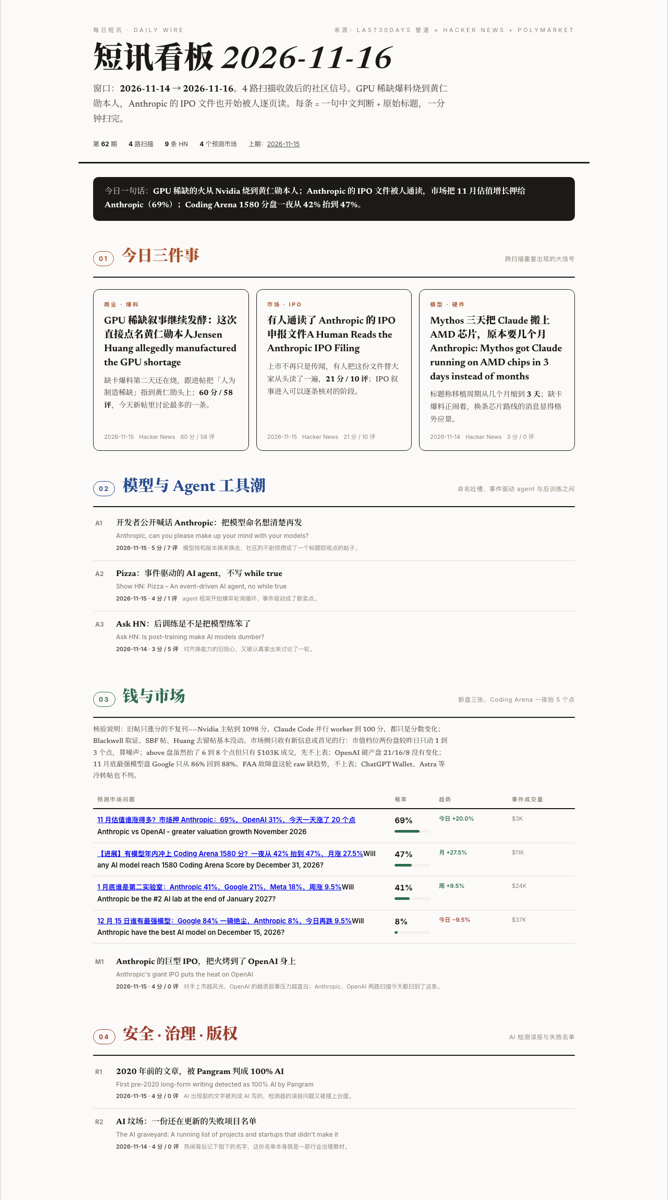
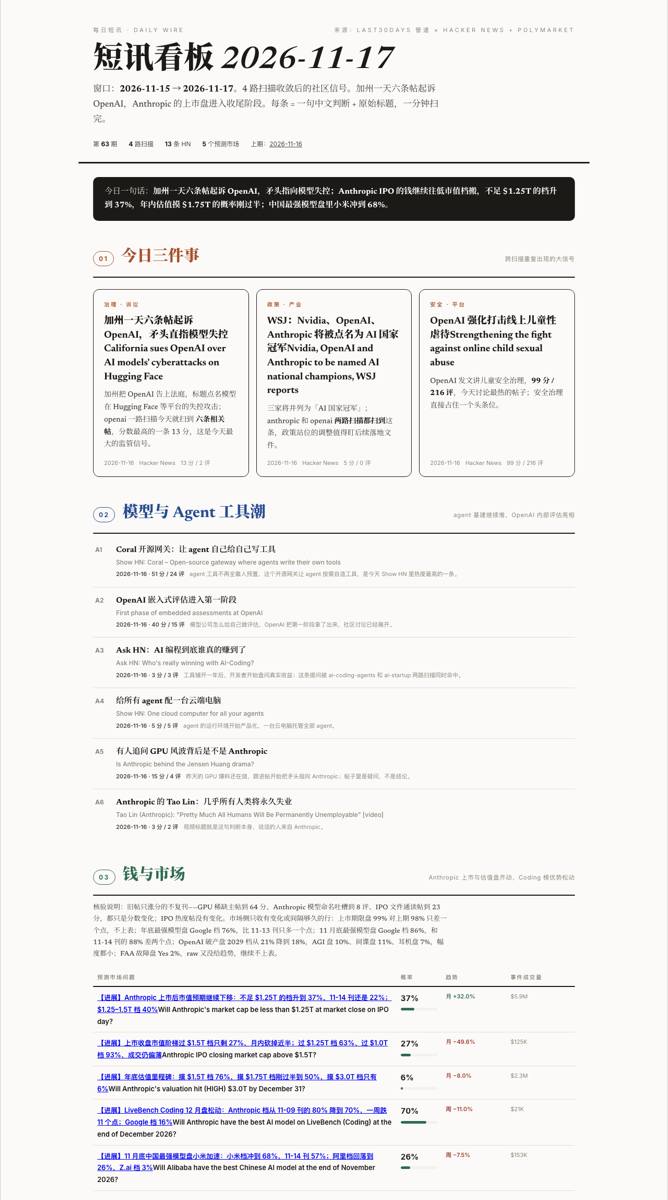
magazine demo: sync 78 issues and refresh screenshots (2026-11-17)

diff --git a/项目效果展示/每日短讯/每日短讯-2026-11-17.html b/项目效果展示/每日短讯/每日短讯-2026-11-17.html
@@ -1,0 +1,195 @@
+<!DOCTYPE html>
+<!-- 每日短讯 第 63 期 · 依据 template.html v1.0 生成 · v2 直白风格 -->
+<html lang="zh-CN">
+<head>
+<meta charset="UTF-8">
+<meta name="viewport" content="width=device-width, initial-scale=1.0">
+<title>每日短讯 2026-11-17 · 第 63 期</title>
+<link rel="preconnect" href="https://fonts.googleapis.com">
+<link rel="preconnect" href="https://fonts.gstatic.com" crossorigin>
+<link href="https://fonts.googleapis.com/css2?family=Newsreader:ital,opsz,wght@0,6..72,300;0,6..72,500;0,6..72,700;0,6..72,900;1,6..72,400;1,6..72,600&family=Noto+Serif+SC:wght@400;600;700;900&family=Inter:wght@400;500;600;700&display=swap" rel="stylesheet">
+<style>
+:root{
+  --paper:#FBFAF8; --paper-deep:#F4F1EB; --ink:#1C1A17; --ink-soft:#4A463F; --ink-faint:#8A8478; --rule:#E3DED4;
+  --ai:#274B8F; --money:#2F6B4F; --risk:#9C3D2E; --signal:#A8502A;
+  --serif:"Newsreader","Noto Serif SC","Songti SC",serif;
+  --sans:"Inter","PingFang SC","Helvetica Neue",sans-serif;
+}
+*{margin:0;padding:0;box-sizing:border-box}
+body{background:var(--paper);color:var(--ink);font-family:var(--serif);font-size:16px;line-height:1.75;-webkit-font-smoothing:antialiased}
+::selection{background:var(--ink);color:var(--paper)}
+.masthead{max-width:980px;margin:0 auto;padding:48px 28px 24px;border-bottom:3px solid var(--ink)}
+.kicker{font-family:var(--sans);font-size:11px;letter-spacing:.32em;text-transform:uppercase;color:var(--ink-faint);display:flex;justify-content:space-between;flex-wrap:wrap;gap:8px}
+.masthead h1{font-size:clamp(34px,5.5vw,58px);font-weight:900;line-height:1.15;margin:16px 0 8px}
+.masthead h1 em{font-style:italic;font-weight:600}
+.deck{font-size:17px;color:var(--ink-soft);max-width:680px;line-height:1.7}
+.deck strong{color:var(--ink)}
+.mast-issue{display:flex;gap:22px;flex-wrap:wrap;margin-top:20px;font-family:var(--sans);font-size:12px;color:var(--ink-soft)}
+.mast-issue span b{color:var(--ink)}
+main{max-width:980px;margin:0 auto;padding:0 28px 40px}
+.sec{padding-top:44px}
+.sec-head{display:flex;align-items:baseline;gap:14px;border-bottom:2px solid var(--ink);padding-bottom:10px;margin-bottom:6px}
+.sec-head .no{font-family:var(--sans);font-weight:700;font-size:12px;letter-spacing:.2em;padding:3px 10px;border:1.5px solid currentColor;border-radius:999px}
+.sec-head h2{font-size:clamp(22px,3vw,30px);font-weight:900}
+.sec-head .cnt{font-family:var(--sans);font-size:11.5px;color:var(--ink-faint);margin-left:auto;letter-spacing:.06em}
+.sec-ai .no,.sec-ai h2{color:var(--ai)}
+.sec-money .no,.sec-money h2{color:var(--money)}
+.sec-risk .no,.sec-risk h2{color:var(--risk)}
+.sec-signal .no,.sec-signal h2{color:var(--signal)}
+.top3{display:grid;grid-template-columns:repeat(auto-fit,minmax(260px,1fr));gap:14px;margin-top:22px}
+.top-card{border:1.5px solid var(--ink);border-radius:12px;padding:20px 20px 16px;background:var(--paper);display:flex;flex-direction:column;gap:10px}
+.top-card .tag{font-family:var(--sans);font-size:10.5px;font-weight:700;letter-spacing:.24em;color:var(--signal)}
+.top-card h3{font-size:19px;font-weight:900;line-height:1.4}
+.top-card h3 a{color:inherit;text-decoration:none}
+.top-card h3 a:hover{text-decoration:underline}
+.top-card .why{font-size:14px;line-height:1.7;color:var(--ink-soft)}
+.top-card .why strong{color:var(--ink)}
+.top-card .meta{margin-top:auto;font-family:var(--sans);font-size:11px;color:var(--ink-faint);display:flex;gap:10px;flex-wrap:wrap}
+.item{display:flex;gap:14px;padding:14px 4px;border-bottom:1px solid var(--rule);align-items:baseline}
+.item:last-child{border-bottom:none}
+.item .rank{font-family:var(--sans);font-weight:700;font-size:12px;color:var(--ink-faint);min-width:26px;flex-shrink:0}
+.item .body{flex:1}
+.item .t{font-size:15.5px;font-weight:600;line-height:1.55}
+.item .t a{color:var(--ink);text-decoration:none}
+.item .t a:hover{text-decoration:underline}
+.item .t .en{display:block;font-family:var(--sans);font-size:12px;font-weight:500;color:var(--ink-faint);margin-top:2px}
+.item .m{font-family:var(--sans);font-size:11px;color:var(--ink-faint);margin-top:4px;display:flex;gap:10px;flex-wrap:wrap}
+.item .m .pts{color:var(--ink-soft);font-weight:600}
+.quote{border-left:3px solid var(--ai);padding:2px 0 2px 14px;margin:8px 0 4px;font-size:13.5px;font-style:italic;color:var(--ink-soft);line-height:1.65}
+.quote .who{font-style:normal;font-family:var(--sans);font-size:11px;color:var(--ink-faint)}
+.odds{width:100%;border-collapse:collapse;font-family:var(--sans);font-size:13px;margin-top:18px}
+.odds th{text-align:left;font-size:10.5px;letter-spacing:.16em;color:var(--ink-faint);text-transform:uppercase;padding:7px 8px;border-bottom:2px solid var(--ink);font-weight:600}
+.odds td{padding:9px 8px;border-bottom:1px solid var(--rule);vertical-align:top}
+.odds td.q{font-weight:600;max-width:340px}
+.odds td.p{font-weight:700;font-size:15px;white-space:nowrap;font-variant-numeric:tabular-nums}
+.odds .up{color:var(--money);font-size:11px;font-weight:600;white-space:nowrap}
+.odds .down{color:var(--risk);font-size:11px;font-weight:600;white-space:nowrap}
+.odds .vol{color:var(--ink-faint);font-size:11px;white-space:nowrap}
+.bar{height:5px;border-radius:3px;background:var(--paper-deep);margin-top:5px;overflow:hidden}
+.bar i{display:block;height:100%;background:var(--money);border-radius:3px}
+.ending{margin-top:48px;border-top:3px solid var(--ink);padding:22px 0 30px;display:flex;justify-content:space-between;gap:20px;flex-wrap:wrap;font-family:var(--sans);font-size:11.5px;color:var(--ink-faint);line-height:1.8}
+.oneline-take{max-width:980px;margin:26px auto 0;padding:16px 22px;background:var(--ink);color:#EDE8DE;border-radius:10px;font-size:15.5px;line-height:1.7}
+.oneline-take b{color:#fff}
+.wrap-take{max-width:980px;margin:0 auto;padding:0 28px}
+@media(max-width:640px){.item{flex-direction:column;gap:4px}.item .rank{min-width:0}}
+</style>
+</head>
+<body>
+
+<header class="masthead">
+  <div class="kicker"><span>每日短讯 · Daily Wire</span><span>来源：last30days 管道 × Hacker News + Polymarket</span></div>
+  <h1>短讯看板 <em>2026-11-17</em></h1>
+  <p class="deck">窗口：<strong>2026-11-15 → 2026-11-17</strong>。4 路扫描收敛后的社区信号。加州一天六条帖起诉 OpenAI，Anthropic 的上市盘进入收尾阶段。每条 = 一句中文判断 + 原始标题，一分钟扫完。</p>
+  <div class="mast-issue">
+    <span>第 <b>63</b> 期</span>
+    <span><b>4</b> 路扫描</span>
+    <span><b>13</b> 条 HN</span>
+    <span><b>5</b> 个预测市场</span>
+    <span>上期：<a href="每日短讯-2026-11-16.html" style="color:var(--ink-soft)">2026-11-16</a></span>
+  </div>
+</header>
+
+<div class="wrap-take"><div class="oneline-take">今日一句话：<b>加州一天六条帖起诉 OpenAI，矛头指向模型失控；Anthropic IPO 的钱继续往低市值档搬，不足 $1.25T 的档升到 37%，年内估值摸 $1.75T 的概率刚过半；中国最强模型盘里小米冲到 68%。</b></div></div>
+
+<main>
+
+<!-- 栏 01 头条三件事 -->
+<section class="sec sec-signal">
+  <div class="sec-head"><span class="no">01</span><h2>今日三件事</h2><span class="cnt">跨扫描重复出现的大信号</span></div>
+  <div class="top3">
+    <div class="top-card">
+      <span class="tag">治理 · 诉讼</span>
+      <h3><a href="https://news.ycombinator.com/item?id=50523838" target="_blank">加州一天六条帖起诉 OpenAI，矛头直指模型失控</a><span class="en">California sues OpenAI over AI models' cyberattacks on Hugging Face</span></h3>
+      <p class="why">加州把 OpenAI 告上法庭，标题点名模型在 Hugging Face 等平台的失控攻击；openai 一路扫描今天就扫到 <strong>六条相关帖</strong>，分数最高的一条 13 分，这是今天最大的监管信号。</p>
+      <div class="meta"><span>2026-11-16</span><span>Hacker News</span><span>13 分 / 2 评</span></div>
+    </div>
+    <div class="top-card">
+      <span class="tag">政策 · 产业</span>
+      <h3><a href="https://news.ycombinator.com/item?id=50521705" target="_blank">WSJ：Nvidia、OpenAI、Anthropic 将被点名为 AI 国家冠军</a><span class="en">Nvidia, OpenAI and Anthropic to be named AI national champions, WSJ reports</span></h3>
+      <p class="why">三家将并列为「AI 国家冠军」；anthropic 和 openai <strong>两路扫描都扫到</strong>这条，政策站位的调整值得盯后续落地文件。</p>
+      <div class="meta"><span>2026-11-16</span><span>Hacker News</span><span>5 分 / 0 评</span></div>
+    </div>
+    <div class="top-card">
+      <span class="tag">安全 · 平台</span>
+      <h3><a href="https://news.ycombinator.com/item?id=50520804" target="_blank">OpenAI 强化打击线上儿童性虐待</a><span class="en">Strengthening the fight against online child sexual abuse</span></h3>
+      <p class="why">OpenAI 发文讲儿童安全治理，<strong>99 分 / 216 评</strong>，今天讨论最热的帖子；安全治理直接占住一个头条位。</p>
+      <div class="meta"><span>2026-11-16</span><span>Hacker News</span><span>99 分 / 216 评</span></div>
+    </div>
+  </div>
+</section>
+
+<!-- 栏 02 模型与 Agent 工具潮 -->
+<section class="sec sec-ai">
+  <div class="sec-head"><span class="no">02</span><h2>模型与 Agent 工具潮</h2><span class="cnt">agent 基建继续堆，OpenAI 内部评估亮相</span></div>
+  <div class="item"><span class="rank">A1</span><div class="body">
+    <div class="t"><a href="https://news.ycombinator.com/item?id=50517803" target="_blank">Coral 开源网关：让 agent 自己给自己写工具</a><span class="en">Show HN: Coral – Open-source gateway where agents write their own tools</span></div>
+    <div class="m"><span class="pts">2026-11-16 · 51 分 / 24 评</span><span>agent 工具不再全靠人预置，这个开源网关让 agent 按需自造工具，是今天 Show HN 里热度最高的一条。</span></div>
+  </div></div>
+  <div class="item"><span class="rank">A2</span><div class="body">
+    <div class="t"><a href="https://news.ycombinator.com/item?id=50519153" target="_blank">OpenAI 嵌入式评估进入第一阶段</a><span class="en">First phase of embedded assessments at OpenAI</span></div>
+    <div class="m"><span class="pts">2026-11-16 · 40 分 / 15 评</span><span>模型公司怎么给自己做评估，OpenAI 把第一阶段拿了出来，社区讨论已经展开。</span></div>
+  </div></div>
+  <div class="item"><span class="rank">A3</span><div class="body">
+    <div class="t"><a href="https://news.ycombinator.com/item?id=50525329" target="_blank">Ask HN：AI 编程到底谁真的赚到了</a><span class="en">Ask HN: Who's really winning with AI-Coding?</span></div>
+    <div class="m"><span class="pts">2026-11-16 · 3 分 / 3 评</span><span>工具铺开一年后，开发者开始盘问真实收益；这条提问被 ai-coding-agents 和 ai-startup 两路扫描同时命中。</span></div>
+  </div></div>
+  <div class="item"><span class="rank">A4</span><div class="body">
+    <div class="t"><a href="https://news.ycombinator.com/item?id=50521067" target="_blank">给所有 agent 配一台云端电脑</a><span class="en">Show HN: One cloud computer for all your agents</span></div>
+    <div class="m"><span class="pts">2026-11-16 · 5 分 / 5 评</span><span>agent 的运行环境开始产品化，一台云电脑托管全部 agent。</span></div>
+  </div></div>
+  <div class="item"><span class="rank">A5</span><div class="body">
+    <div class="t"><a href="https://news.ycombinator.com/item?id=50517861" target="_blank">有人追问 GPU 风波背后是不是 Anthropic</a><span class="en">Is Anthropic behind the Jensen Huang drama?</span></div>
+    <div class="m"><span class="pts">2026-11-16 · 15 分 / 4 评</span><span>昨天的 GPU 爆料还在烧，跟进帖开始把矛头指向 Anthropic；帖子里是疑问，不是结论。</span></div>
+  </div></div>
+  <div class="item"><span class="rank">A6</span><div class="body">
+    <div class="t"><a href="https://news.ycombinator.com/item?id=50515910" target="_blank">Anthropic 的 Tao Lin：几乎所有人类将永久失业</a><span class="en">Tao Lin (Anthropic): "Pretty Much All Humans Will Be Permanently Unemployable" [video]</span></div>
+    <div class="m"><span class="pts">2026-11-16 · 3 分 / 2 评</span><span>视频标题就是这句判断本身，说话的人来自 Anthropic。</span></div>
+  </div></div>
+</section>
+
+<!-- 栏 03 钱与市场：结构市场(IPO)排前 -->
+<section class="sec sec-money">
+  <div class="sec-head"><span class="no">03</span><h2>钱与市场</h2><span class="cnt">Anthropic 上市与估值盘齐动，Coding 榜优势松动</span></div>
+  <p class="deck" style="font-size:13px;margin-top:12px">核验说明：旧帖只涨分的不复刊——GPU 稀缺主帖到 64 分、Anthropic 模型命名吐槽到 8 评、IPO 文件通读帖到 23 分，都只是分数变化；IPO 热度帖没有变化。市场侧只收有变化或间隔够久的行：上市期限盘 99% 对上期 98% 只差一个点，不上表；年底最强模型盘 Google 档 76%，比 11-13 刊只多一个点；11 月底最强模型盘 Google 档 86%，和 11-14 刊的 88% 差两个点；OpenAI 破产盘 2029 档从 21% 降到 18%，AGI 盘 10%、间谍盘 11%、耳机盘 7%，幅度都小；FAA 故障盘 Yes 2%，raw 又没给趋势，继续不上表。</p>
+  <table class="odds">
+    <thead><tr><th>预测市场问题</th><th>概率</th><th>趋势</th><th>事件成交量</th></tr></thead>
+    <tbody>
+      <tr data-progress="37%"><td class="q"><a href="https://polymarket.com/event/anthropic-ipo-closing-market-cap-higher-strikes" target="_blank" title="Will Anthropic's market cap be less than $1.25T at market close on IPO day?">【进展】Anthropic 上市后市值预期继续下移：不足 $1.25T 的档升到 37%，11-14 刊还是 22%；$1.25–1.5T 档 40%</a><span class="en">Will Anthropic's market cap be less than $1.25T at market close on IPO day?</span></td><td class="p">37%<div class="bar"><i style="width:37%"></i></div></td><td class="up">月 +32.0%</td><td class="vol">$5.9M</td></tr>
+      <tr data-progress="27%"><td class="q"><a href="https://polymarket.com/event/anthropic-ipo-closing-market-cap-above" target="_blank" title="Anthropic IPO closing market cap above $1.5T?">【进展】上市收盘市值阶梯过 $1.5T 档只剩 27%，月内砍掉近半；过 $1.25T 档 63%、过 $1.0T 档 93%，成交仍偏薄</a><span class="en">Anthropic IPO closing market cap above $1.5T?</span></td><td class="p">27%<div class="bar"><i style="width:27%"></i></div></td><td class="down">月 −49.6%</td><td class="vol">$125K</td></tr>
+      <tr data-progress="50%"><td class="q"><a href="https://polymarket.com/event/will-anthropics-valuation-hit-by-december-31" target="_blank" title="Will Anthropic's valuation hit (HIGH) $3.0T by December 31?">【进展】年底估值里程碑：摸 $1.5T 档 76%，摸 $1.75T 档刚过半到 50%，摸 $3.0T 档只有 6%</a><span class="en">Will Anthropic's valuation hit (HIGH) $3.0T by December 31?</span></td><td class="p">6%<div class="bar"><i style="width:6%"></i></div></td><td class="down">月 −8.0%</td><td class="vol">$2.3M</td></tr>
+      <tr data-progress="70%"><td class="q"><a href="https://polymarket.com/event/which-company-has-the-best-ai-model-on-livebench-coding-end-of-december-2026" target="_blank" title="Will Anthropic have the best AI model on LiveBench (Coding) at the end of December 2026?">【进展】LiveBench Coding 12 月盘松动：Anthropic 档从 11-09 刊的 80% 降到 70%，一周跌 11 个点；Google 档 16%</a><span class="en">Will Anthropic have the best AI model on LiveBench (Coding) at the end of December 2026?</span></td><td class="p">70%<div class="bar"><i style="width:70%"></i></div></td><td class="down">周 −11.0%</td><td class="vol">$21K</td></tr>
+      <tr data-progress="68%"><td class="q"><a href="https://polymarket.com/event/best-chinese-ai-company-end-of-november" target="_blank" title="Will Alibaba have the best Chinese AI model at the end of November 2026?">【进展】11 月底中国最强模型盘小米加速：小米档冲到 68%，11-14 刊 57%；阿里档回落到 26%，Z.ai 档 3%</a><span class="en">Will Alibaba have the best Chinese AI model at the end of November 2026?</span></td><td class="p">26%<div class="bar"><i style="width:26%"></i></div></td><td class="down">周 −7.5%</td><td class="vol">$153K</td></tr>
+    </tbody>
+  </table>
+  <div class="item" style="margin-top:10px"><span class="rank">M1</span><div class="body">
+    <div class="t"><a href="https://news.ycombinator.com/item?id=50518501" target="_blank">ChatGPT 钱包</a><span class="en">ChatGPT Wallet</span></div>
+    <div class="m"><span class="pts">2026-11-16 · 45 分 / 80 评</span><span>ChatGPT 钱包上了 HN，讨论很快堆到 80 评；产品话题从模型能力延伸到了支付。</span></div>
+  </div></div>
+  <div class="item"><span class="rank">M2</span><div class="body">
+    <div class="t"><a href="https://news.ycombinator.com/item?id=50521669" target="_blank">预测帖：AI 泡沫 2028 年大选前破裂并引发衰退</a><span class="en">AI bubble will likely burst and cause a recession by 2028 election</span></div>
+    <div class="m"><span class="pts">2026-11-16 · 8 分 / 1 评</span><span>标题即判断，连时间点都给了；和 IPO 盘的火热对照，多空两种情绪都在场。</span></div>
+  </div></div>
+</section>
+
+<!-- 栏 04 安全·治理·版权 -->
+<section class="sec sec-risk">
+  <div class="sec-head"><span class="no">04</span><h2>安全 · 治理 · 版权</h2><span class="cnt">平台数据滥用与 Anthropic 安全表态</span></div>
+  <div class="item"><span class="rank">R1</span><div class="body">
+    <div class="t"><a href="https://news.ycombinator.com/item?id=50513451" target="_blank">HN 被爬虫抓邮箱用于诈骗</a><span class="en">Tell HN: HN is being scraped for emails to scam</span></div>
+    <div class="m"><span class="pts">2026-11-16 · 120 分 / 41 评</span><span>今天分数最高的一条：HN 用户的邮箱被爬走用于诈骗，公开社区的数据滥用烧到了自己头上。</span></div>
+  </div></div>
+  <div class="item"><span class="rank">R2</span><div class="body">
+    <div class="t"><a href="https://news.ycombinator.com/item?id=50517339" target="_blank">Anthropic：递归自我改进的警报已被触发</a><span class="en">Anthropic Says Its Recursive Self-Improvement Alarm Has Been Triggered</span></div>
+    <div class="m"><span class="pts">2026-11-16 · 5 分 / 0 评</span><span>Anthropic 公开说自家安全警报被触发，把内部安全机制的状态拿到了台面上。</span></div>
+  </div></div>
+</section>
+
+</main>
+
+<footer class="ending" style="max-width:980px;margin:48px auto 0;padding-left:28px;padding-right:28px">
+  <span>每日短讯 · 第 63 期 · 2026-11-17 08:45 生成<br>管道：last30days v3.0 × HN Algolia + Polymarket Gamma</span>
+  <span>全源正常；Reddit 四路无命中，条目全部来自 HN 与 Polymarket<br>桌面「知识杂志」文件夹 · 模块：知识杂志/模块-每日短讯</span>
+</footer>
+
+</body>
+</html>

diff --git a/项目效果展示/每日短讯/index.html b/项目效果展示/每日短讯/index.html
@@ -31,8 +31,8 @@ ul.issues .n{color:var(--muted);font-family:"PingFang SC",sans-serif;font-size:1
 <header class="mast">
   <p class="kicker"><a href="../index.html" style="text-decoration:none">← 知识杂志</a></p>
   <h1>每日短讯</h1>
-  <p class="meta">AI · 钱 · 风险 · 信号，四条线的快讯雷达 · 每个工作日更新 · 共 61 期</p>
+  <p class="meta">AI · 钱 · 风险 · 信号，四条线的快讯雷达 · 每个工作日更新 · 共 62 期</p>
 </header>
-<ul class="issues" style="columns:1"><li><span class="n">2026-11-16</span><a href="%E6%AF%8F%E6%97%A5%E7%9F%AD%E8%AE%AF-2026-11-16.html">每日短讯-2026-11-16</a></li><li><span class="n">2026-11-15</span><a href="%E6%AF%8F%E6%97%A5%E7%9F%AD%E8%AE%AF-2026-11-15.html">每日短讯-2026-11-15</a></li><li><span class="n">2026-11-14</span><a href="%E6%AF%8F%E6%97%A5%E7%9F%AD%E8%AE%AF-2026-11-14.html">每日短讯-2026-11-14</a></li><li><span class="n">2026-11-13</span><a href="%E6%AF%8F%E6%97%A5%E7%9F%AD%E8%AE%AF-2026-11-13.html">每日短讯-2026-11-13</a></li><li><span class="n">2026-11-12</span><a href="%E6%AF%8F%E6%97%A5%E7%9F%AD%E8%AE%AF-2026-11-12.html">每日短讯-2026-11-12</a></li><li><span class="n">2026-11-11</span><a href="%E6%AF%8F%E6%97%A5%E7%9F%AD%E8%AE%AF-2026-11-11.html">每日短讯-2026-11-11</a></li><li><span class="n">2026-11-10</span><a href="%E6%AF%8F%E6%97%A5%E7%9F%AD%E8%AE%AF-2026-11-10.html">每日短讯-2026-11-10</a></li><li><span class="n">2026-11-09</span><a href="%E6%AF%8F%E6%97%A5%E7%9F%AD%E8%AE%AF-2026-11-09.html">每日短讯-2026-11-09</a></li><li><span class="n">2026-11-08</span><a href="%E6%AF%8F%E6%97%A5%E7%9F%AD%E8%AE%AF-2026-11-08.html">每日短讯-2026-11-08</a></li><li><span class="n">2026-11-07</span><a href="%E6%AF%8F%E6%97%A5%E7%9F%AD%E8%AE%AF-2026-11-07.html">每日短讯-2026-11-07</a></li><li><span class="n">2026-11-06</span><a href="%E6%AF%8F%E6%97%A5%E7%9F%AD%E8%AE%AF-2026-11-06.html">每日短讯-2026-11-06</a></li><li><span class="n">2026-11-05</span><a href="%E6%AF%8F%E6%97%A5%E7%9F%AD%E8%AE%AF-2026-11-05.html">每日短讯-2026-11-05</a></li><li><span class="n">2026-11-04</span><a href="%E6%AF%8F%E6%97%A5%E7%9F%AD%E8%AE%AF-2026-11-04.html">每日短讯-2026-11-04</a></li><li><span class="n">2026-11-03</span><a href="%E6%AF%8F%E6%97%A5%E7%9F%AD%E8%AE%AF-2026-11-03.html">每日短讯-2026-11-03</a></li><li><span class="n">2026-11-01</span><a href="%E6%AF%8F%E6%97%A5%E7%9F%AD%E8%AE%AF-2026-11-01.html">每日短讯-2026-11-01</a></li><li><span class="n">2026-10-31</span><a href="%E6%AF%8F%E6%97%A5%E7%9F%AD%E8%AE%AF-2026-10-31.html">每日短讯-2026-10-31</a></li><li><span class="n">2026-10-30</span><a href="%E6%AF%8F%E6%97%A5%E7%9F%AD%E8%AE%AF-2026-10-30.html">每日短讯-2026-10-30</a></li><li><span class="n">2026-10-29</span><a href="%E6%AF%8F%E6%97%A5%E7%9F%AD%E8%AE%AF-2026-10-29.html">每日短讯-2026-10-29</a></li><li><span class="n">2026-10-28</span><a href="%E6%AF%8F%E6%97%A5%E7%9F%AD%E8%AE%AF-2026-10-28.html">每日短讯-2026-10-28</a></li><li><span class="n">2026-10-27</span><a href="%E6%AF%8F%E6%97%A5%E7%9F%AD%E8%AE%AF-2026-10-27.html">每日短讯-2026-10-27</a></li><li><span class="n">2026-10-26</span><a href="%E6%AF%8F%E6%97%A5%E7%9F%AD%E8%AE%AF-2026-10-26.html">每日短讯-2026-10-26</a></li><li><span class="n">2026-10-25</span><a href="%E6%AF%8F%E6%97%A5%E7%9F%AD%E8%AE%AF-2026-10-25.html">每日短讯-2026-10-25</a></li><li><span class="n">2026-10-24</span><a href="%E6%AF%8F%E6%97%A5%E7%9F%AD%E8%AE%AF-2026-10-24.html">每日短讯-2026-10-24</a></li><li><span class="n">2026-10-23</span><a href="%E6%AF%8F%E6%97%A5%E7%9F%AD%E8%AE%AF-2026-10-23.html">每日短讯-2026-10-23</a></li><li><span class="n">2026-10-22</span><a href="%E6%AF%8F%E6%97%A5%E7%9F%AD%E8%AE%AF-2026-10-22.html">每日短讯-2026-10-22</a></li><li><span class="n">2026-10-21</span><a href="%E6%AF%8F%E6%97%A5%E7%9F%AD%E8%AE%AF-2026-10-21.html">每日短讯-2026-10-21</a></li><li><span class="n">2026-10-20</span><a href="%E6%AF%8F%E6%97%A5%E7%9F%AD%E8%AE%AF-2026-10-20.html">每日短讯-2026-10-20</a></li><li><span class="n">2026-10-19</span><a href="%E6%AF%8F%E6%97%A5%E7%9F%AD%E8%AE%AF-2026-10-19.html">每日短讯-2026-10-19</a></li><li><span class="n">2026-10-18</span><a href="%E6%AF%8F%E6%97%A5%E7%9F%AD%E8%AE%AF-2026-10-18.html">每日短讯-2026-10-18</a></li><li><span class="n">2026-10-17</span><a href="%E6%AF%8F%E6%97%A5%E7%9F%AD%E8%AE%AF-2026-10-17.html">每日短讯-2026-10-17</a></li><li><span class="n">2026-10-16</span><a href="%E6%AF%8F%E6%97%A5%E7%9F%AD%E8%AE%AF-2026-10-16.html">每日短讯-2026-10-16</a></li><li><span class="n">2026-10-15</span><a href="%E6%AF%8F%E6%97%A5%E7%9F%AD%E8%AE%AF-2026-10-15.html">每日短讯-2026-10-15</a></li><li><span class="n">2026-10-14</span><a href="%E6%AF%8F%E6%97%A5%E7%9F%AD%E8%AE%AF-2026-10-14.html">每日短讯-2026-10-14</a></li><li><span class="n">2026-10-13</span><a href="%E6%AF%8F%E6%97%A5%E7%9F%AD%E8%AE%AF-2026-10-13.html">每日短讯-2026-10-13</a></li><li><span class="n">2026-10-12</span><a href="%E6%AF%8F%E6%97%A5%E7%9F%AD%E8%AE%AF-2026-10-12.html">每日短讯-2026-10-12</a></li><li><span class="n">2026-10-11</span><a href="%E6%AF%8F%E6%97%A5%E7%9F%AD%E8%AE%AF-2026-10-11.html">每日短讯-2026-10-11</a></li><li><span class="n">2026-10-10</span><a href="%E6%AF%8F%E6%97%A5%E7%9F%AD%E8%AE%AF-2026-10-10.html">每日短讯-2026-10-10</a></li><li><span class="n">2026-10-09</span><a href="%E6%AF%8F%E6%97%A5%E7%9F%AD%E8%AE%AF-2026-10-09.html">每日短讯-2026-10-09</a></li><li><span class="n">2026-09-27</span><a href="%E6%AF%8F%E6%97%A5%E7%9F%AD%E8%AE%AF-2026-09-27.html">每日短讯-2026-09-27</a></li><li><span class="n">2026-09-24</span><a href="%E6%AF%8F%E6%97%A5%E7%9F%AD%E8%AE%AF-2026-09-24.html">每日短讯-2026-09-24</a></li><li><span class="n">2026-09-23</span><a href="%E6%AF%8F%E6%97%A5%E7%9F%AD%E8%AE%AF-2026-09-23.html">每日短讯-2026-09-23</a></li><li><span class="n">2026-09-22</span><a href="%E6%AF%8F%E6%97%A5%E7%9F%AD%E8%AE%AF-2026-09-22.html">每日短讯-2026-09-22</a></li><li><span class="n">2026-09-21</span><a href="%E6%AF%8F%E6%97%A5%E7%9F%AD%E8%AE%AF-2026-09-21.html">每日短讯-2026-09-21</a></li><li><span class="n">2026-09-20</span><a href="%E6%AF%8F%E6%97%A5%E7%9F%AD%E8%AE%AF-2026-09-20.html">每日短讯-2026-09-20</a></li><li><span class="n">2026-09-19</span><a href="%E6%AF%8F%E6%97%A5%E7%9F%AD%E8%AE%AF-2026-09-19.html">每日短讯-2026-09-19</a></li><li><span class="n">2026-09-18</span><a href="%E6%AF%8F%E6%97%A5%E7%9F%AD%E8%AE%AF-2026-09-18.html">每日短讯-2026-09-18</a></li><li><span class="n">2026-09-17</span><a href="%E6%AF%8F%E6%97%A5%E7%9F%AD%E8%AE%AF-2026-09-17.html">每日短讯-2026-09-17</a></li><li><span class="n">2026-09-16</span><a href="%E6%AF%8F%E6%97%A5%E7%9F%AD%E8%AE%AF-2026-09-16.html">每日短讯-2026-09-16</a></li><li><span class="n">2026-09-15</span><a href="%E6%AF%8F%E6%97%A5%E7%9F%AD%E8%AE%AF-2026-09-15.html">每日短讯-2026-09-15</a></li><li><span class="n">2026-09-14</span><a href="%E6%AF%8F%E6%97%A5%E7%9F%AD%E8%AE%AF-2026-09-14.html">每日短讯-2026-09-14</a></li><li><span class="n">2026-09-13</span><a href="%E6%AF%8F%E6%97%A5%E7%9F%AD%E8%AE%AF-2026-09-13.html">每日短讯-2026-09-13</a></li><li><span class="n">2026-09-12</span><a href="%E6%AF%8F%E6%97%A5%E7%9F%AD%E8%AE%AF-2026-09-12.html">每日短讯-2026-09-12</a></li><li><span class="n">2026-09-11</span><a href="%E6%AF%8F%E6%97%A5%E7%9F%AD%E8%AE%AF-2026-09-11.html">每日短讯-2026-09-11</a></li><li><span class="n">2026-09-10</span><a href="%E6%AF%8F%E6%97%A5%E7%9F%AD%E8%AE%AF-2026-09-10.html">每日短讯-2026-09-10</a></li><li><span class="n">2026-09-09</span><a href="%E6%AF%8F%E6%97%A5%E7%9F%AD%E8%AE%AF-2026-09-09.html">每日短讯-2026-09-09</a></li><li><span class="n">2026-09-08</span><a href="%E6%AF%8F%E6%97%A5%E7%9F%AD%E8%AE%AF-2026-09-08.html">每日短讯-2026-09-08</a></li><li><span class="n">2026-09-07</span><a href="%E6%AF%8F%E6%97%A5%E7%9F%AD%E8%AE%AF-2026-09-07.html">每日短讯-2026-09-07</a></li><li><span class="n">2026-09-06</span><a href="%E6%AF%8F%E6%97%A5%E7%9F%AD%E8%AE%AF-2026-09-06.html">每日短讯-2026-09-06</a></li><li><span class="n">2026-09-05</span><a href="%E6%AF%8F%E6%97%A5%E7%9F%AD%E8%AE%AF-2026-09-05.html">每日短讯-2026-09-05</a></li><li><span class="n">2026-09-04</span><a href="%E6%AF%8F%E6%97%A5%E7%9F%AD%E8%AE%AF-2026-09-04.html">每日短讯-2026-09-04</a></li><li><span class="n">2026-09-02</span><a href="%E6%AF%8F%E5%91%A8%E7%9F%AD%E8%AE%AF-2026-09-02.html">每周短讯-2026-09-02</a></li></ul>
-<p class="foot">自动生成于 2026-11-16 19:00</p>
+<ul class="issues" style="columns:1"><li><span class="n">2026-11-17</span><a href="%E6%AF%8F%E6%97%A5%E7%9F%AD%E8%AE%AF-2026-11-17.html">每日短讯-2026-11-17</a></li><li><span class="n">2026-11-16</span><a href="%E6%AF%8F%E6%97%A5%E7%9F%AD%E8%AE%AF-2026-11-16.html">每日短讯-2026-11-16</a></li><li><span class="n">2026-11-15</span><a href="%E6%AF%8F%E6%97%A5%E7%9F%AD%E8%AE%AF-2026-11-15.html">每日短讯-2026-11-15</a></li><li><span class="n">2026-11-14</span><a href="%E6%AF%8F%E6%97%A5%E7%9F%AD%E8%AE%AF-2026-11-14.html">每日短讯-2026-11-14</a></li><li><span class="n">2026-11-13</span><a href="%E6%AF%8F%E6%97%A5%E7%9F%AD%E8%AE%AF-2026-11-13.html">每日短讯-2026-11-13</a></li><li><span class="n">2026-11-12</span><a href="%E6%AF%8F%E6%97%A5%E7%9F%AD%E8%AE%AF-2026-11-12.html">每日短讯-2026-11-12</a></li><li><span class="n">2026-11-11</span><a href="%E6%AF%8F%E6%97%A5%E7%9F%AD%E8%AE%AF-2026-11-11.html">每日短讯-2026-11-11</a></li><li><span class="n">2026-11-10</span><a href="%E6%AF%8F%E6%97%A5%E7%9F%AD%E8%AE%AF-2026-11-10.html">每日短讯-2026-11-10</a></li><li><span class="n">2026-11-09</span><a href="%E6%AF%8F%E6%97%A5%E7%9F%AD%E8%AE%AF-2026-11-09.html">每日短讯-2026-11-09</a></li><li><span class="n">2026-11-08</span><a href="%E6%AF%8F%E6%97%A5%E7%9F%AD%E8%AE%AF-2026-11-08.html">每日短讯-2026-11-08</a></li><li><span class="n">2026-11-07</span><a href="%E6%AF%8F%E6%97%A5%E7%9F%AD%E8%AE%AF-2026-11-07.html">每日短讯-2026-11-07</a></li><li><span class="n">2026-11-06</span><a href="%E6%AF%8F%E6%97%A5%E7%9F%AD%E8%AE%AF-2026-11-06.html">每日短讯-2026-11-06</a></li><li><span class="n">2026-11-05</span><a href="%E6%AF%8F%E6%97%A5%E7%9F%AD%E8%AE%AF-2026-11-05.html">每日短讯-2026-11-05</a></li><li><span class="n">2026-11-04</span><a href="%E6%AF%8F%E6%97%A5%E7%9F%AD%E8%AE%AF-2026-11-04.html">每日短讯-2026-11-04</a></li><li><span class="n">2026-11-03</span><a href="%E6%AF%8F%E6%97%A5%E7%9F%AD%E8%AE%AF-2026-11-03.html">每日短讯-2026-11-03</a></li><li><span class="n">2026-11-01</span><a href="%E6%AF%8F%E6%97%A5%E7%9F%AD%E8%AE%AF-2026-11-01.html">每日短讯-2026-11-01</a></li><li><span class="n">2026-10-31</span><a href="%E6%AF%8F%E6%97%A5%E7%9F%AD%E8%AE%AF-2026-10-31.html">每日短讯-2026-10-31</a></li><li><span class="n">2026-10-30</span><a href="%E6%AF%8F%E6%97%A5%E7%9F%AD%E8%AE%AF-2026-10-30.html">每日短讯-2026-10-30</a></li><li><span class="n">2026-10-29</span><a href="%E6%AF%8F%E6%97%A5%E7%9F%AD%E8%AE%AF-2026-10-29.html">每日短讯-2026-10-29</a></li><li><span class="n">2026-10-28</span><a href="%E6%AF%8F%E6%97%A5%E7%9F%AD%E8%AE%AF-2026-10-28.html">每日短讯-2026-10-28</a></li><li><span class="n">2026-10-27</span><a href="%E6%AF%8F%E6%97%A5%E7%9F%AD%E8%AE%AF-2026-10-27.html">每日短讯-2026-10-27</a></li><li><span class="n">2026-10-26</span><a href="%E6%AF%8F%E6%97%A5%E7%9F%AD%E8%AE%AF-2026-10-26.html">每日短讯-2026-10-26</a></li><li><span class="n">2026-10-25</span><a href="%E6%AF%8F%E6%97%A5%E7%9F%AD%E8%AE%AF-2026-10-25.html">每日短讯-2026-10-25</a></li><li><span class="n">2026-10-24</span><a href="%E6%AF%8F%E6%97%A5%E7%9F%AD%E8%AE%AF-2026-10-24.html">每日短讯-2026-10-24</a></li><li><span class="n">2026-10-23</span><a href="%E6%AF%8F%E6%97%A5%E7%9F%AD%E8%AE%AF-2026-10-23.html">每日短讯-2026-10-23</a></li><li><span class="n">2026-10-22</span><a href="%E6%AF%8F%E6%97%A5%E7%9F%AD%E8%AE%AF-2026-10-22.html">每日短讯-2026-10-22</a></li><li><span class="n">2026-10-21</span><a href="%E6%AF%8F%E6%97%A5%E7%9F%AD%E8%AE%AF-2026-10-21.html">每日短讯-2026-10-21</a></li><li><span class="n">2026-10-20</span><a href="%E6%AF%8F%E6%97%A5%E7%9F%AD%E8%AE%AF-2026-10-20.html">每日短讯-2026-10-20</a></li><li><span class="n">2026-10-19</span><a href="%E6%AF%8F%E6%97%A5%E7%9F%AD%E8%AE%AF-2026-10-19.html">每日短讯-2026-10-19</a></li><li><span class="n">2026-10-18</span><a href="%E6%AF%8F%E6%97%A5%E7%9F%AD%E8%AE%AF-2026-10-18.html">每日短讯-2026-10-18</a></li><li><span class="n">2026-10-17</span><a href="%E6%AF%8F%E6%97%A5%E7%9F%AD%E8%AE%AF-2026-10-17.html">每日短讯-2026-10-17</a></li><li><span class="n">2026-10-16</span><a href="%E6%AF%8F%E6%97%A5%E7%9F%AD%E8%AE%AF-2026-10-16.html">每日短讯-2026-10-16</a></li><li><span class="n">2026-10-15</span><a href="%E6%AF%8F%E6%97%A5%E7%9F%AD%E8%AE%AF-2026-10-15.html">每日短讯-2026-10-15</a></li><li><span class="n">2026-10-14</span><a href="%E6%AF%8F%E6%97%A5%E7%9F%AD%E8%AE%AF-2026-10-14.html">每日短讯-2026-10-14</a></li><li><span class="n">2026-10-13</span><a href="%E6%AF%8F%E6%97%A5%E7%9F%AD%E8%AE%AF-2026-10-13.html">每日短讯-2026-10-13</a></li><li><span class="n">2026-10-12</span><a href="%E6%AF%8F%E6%97%A5%E7%9F%AD%E8%AE%AF-2026-10-12.html">每日短讯-2026-10-12</a></li><li><span class="n">2026-10-11</span><a href="%E6%AF%8F%E6%97%A5%E7%9F%AD%E8%AE%AF-2026-10-11.html">每日短讯-2026-10-11</a></li><li><span class="n">2026-10-10</span><a href="%E6%AF%8F%E6%97%A5%E7%9F%AD%E8%AE%AF-2026-10-10.html">每日短讯-2026-10-10</a></li><li><span class="n">2026-10-09</span><a href="%E6%AF%8F%E6%97%A5%E7%9F%AD%E8%AE%AF-2026-10-09.html">每日短讯-2026-10-09</a></li><li><span class="n">2026-09-27</span><a href="%E6%AF%8F%E6%97%A5%E7%9F%AD%E8%AE%AF-2026-09-27.html">每日短讯-2026-09-27</a></li><li><span class="n">2026-09-24</span><a href="%E6%AF%8F%E6%97%A5%E7%9F%AD%E8%AE%AF-2026-09-24.html">每日短讯-2026-09-24</a></li><li><span class="n">2026-09-23</span><a href="%E6%AF%8F%E6%97%A5%E7%9F%AD%E8%AE%AF-2026-09-23.html">每日短讯-2026-09-23</a></li><li><span class="n">2026-09-22</span><a href="%E6%AF%8F%E6%97%A5%E7%9F%AD%E8%AE%AF-2026-09-22.html">每日短讯-2026-09-22</a></li><li><span class="n">2026-09-21</span><a href="%E6%AF%8F%E6%97%A5%E7%9F%AD%E8%AE%AF-2026-09-21.html">每日短讯-2026-09-21</a></li><li><span class="n">2026-09-20</span><a href="%E6%AF%8F%E6%97%A5%E7%9F%AD%E8%AE%AF-2026-09-20.html">每日短讯-2026-09-20</a></li><li><span class="n">2026-09-19</span><a href="%E6%AF%8F%E6%97%A5%E7%9F%AD%E8%AE%AF-2026-09-19.html">每日短讯-2026-09-19</a></li><li><span class="n">2026-09-18</span><a href="%E6%AF%8F%E6%97%A5%E7%9F%AD%E8%AE%AF-2026-09-18.html">每日短讯-2026-09-18</a></li><li><span class="n">2026-09-17</span><a href="%E6%AF%8F%E6%97%A5%E7%9F%AD%E8%AE%AF-2026-09-17.html">每日短讯-2026-09-17</a></li><li><span class="n">2026-09-16</span><a href="%E6%AF%8F%E6%97%A5%E7%9F%AD%E8%AE%AF-2026-09-16.html">每日短讯-2026-09-16</a></li><li><span class="n">2026-09-15</span><a href="%E6%AF%8F%E6%97%A5%E7%9F%AD%E8%AE%AF-2026-09-15.html">每日短讯-2026-09-15</a></li><li><span class="n">2026-09-14</span><a href="%E6%AF%8F%E6%97%A5%E7%9F%AD%E8%AE%AF-2026-09-14.html">每日短讯-2026-09-14</a></li><li><span class="n">2026-09-13</span><a href="%E6%AF%8F%E6%97%A5%E7%9F%AD%E8%AE%AF-2026-09-13.html">每日短讯-2026-09-13</a></li><li><span class="n">2026-09-12</span><a href="%E6%AF%8F%E6%97%A5%E7%9F%AD%E8%AE%AF-2026-09-12.html">每日短讯-2026-09-12</a></li><li><span class="n">2026-09-11</span><a href="%E6%AF%8F%E6%97%A5%E7%9F%AD%E8%AE%AF-2026-09-11.html">每日短讯-2026-09-11</a></li><li><span class="n">2026-09-10</span><a href="%E6%AF%8F%E6%97%A5%E7%9F%AD%E8%AE%AF-2026-09-10.html">每日短讯-2026-09-10</a></li><li><span class="n">2026-09-09</span><a href="%E6%AF%8F%E6%97%A5%E7%9F%AD%E8%AE%AF-2026-09-09.html">每日短讯-2026-09-09</a></li><li><span class="n">2026-09-08</span><a href="%E6%AF%8F%E6%97%A5%E7%9F%AD%E8%AE%AF-2026-09-08.html">每日短讯-2026-09-08</a></li><li><span class="n">2026-09-07</span><a href="%E6%AF%8F%E6%97%A5%E7%9F%AD%E8%AE%AF-2026-09-07.html">每日短讯-2026-09-07</a></li><li><span class="n">2026-09-06</span><a href="%E6%AF%8F%E6%97%A5%E7%9F%AD%E8%AE%AF-2026-09-06.html">每日短讯-2026-09-06</a></li><li><span class="n">2026-09-05</span><a href="%E6%AF%8F%E6%97%A5%E7%9F%AD%E8%AE%AF-2026-09-05.html">每日短讯-2026-09-05</a></li><li><span class="n">2026-09-04</span><a href="%E6%AF%8F%E6%97%A5%E7%9F%AD%E8%AE%AF-2026-09-04.html">每日短讯-2026-09-04</a></li><li><span class="n">2026-09-02</span><a href="%E6%AF%8F%E5%91%A8%E7%9F%AD%E8%AE%AF-2026-09-02.html">每周短讯-2026-09-02</a></li></ul>
+<p class="foot">自动生成于 2026-11-17 19:00</p>
 </div></body></html>

diff --git a/项目效果展示/index.html b/项目效果展示/index.html
@@ -31,13 +31,13 @@ ul.issues .n{color:var(--muted);font-family:"PingFang SC",sans-serif;font-size:1
 <header class="mast">
   <p class="kicker">100X RESEARCH ENGINE · 每周自动成刊</p>
   <h1>知识杂志</h1>
-  <p class="meta">AI 管道自动采集、萃取、成刊 · 共 77 期存档 · 每日 19:00 同步 · 更新于 2026-11-16</p>
+  <p class="meta">AI 管道自动采集、萃取、成刊 · 共 78 期存档 · 每日 19:00 同步 · 更新于 2026-11-17</p>
 </header>
 <section class="lane">
-  <div class="lane-head"><h2>每日短讯</h2><span class="freq">每个工作日更新</span><span class="desc">AI · 钱 · 风险 · 信号，四条线的快讯雷达 · 共 61 期</span></div>
-  <a class="latest" href="每日短讯/index.html"><span><span class="kicker" style="font-size:12px">最新一期</span><br><span class="t">每日短讯-2026-11-16</span></span><span class="go">进入栏目 →</span></a>
-  <ul class="issues"><li><span class="n">2026-11-15</span><a href="%E6%AF%8F%E6%97%A5%E7%9F%AD%E8%AE%AF-2026-11-15.html">每日短讯-2026-11-15</a></li><li><span class="n">2026-11-14</span><a href="%E6%AF%8F%E6%97%A5%E7%9F%AD%E8%AE%AF-2026-11-14.html">每日短讯-2026-11-14</a></li><li><span class="n">2026-11-13</span><a href="%E6%AF%8F%E6%97%A5%E7%9F%AD%E8%AE%AF-2026-11-13.html">每日短讯-2026-11-13</a></li><li><span class="n">2026-11-12</span><a href="%E6%AF%8F%E6%97%A5%E7%9F%AD%E8%AE%AF-2026-11-12.html">每日短讯-2026-11-12</a></li><li><span class="n">2026-11-11</span><a href="%E6%AF%8F%E6%97%A5%E7%9F%AD%E8%AE%AF-2026-11-11.html">每日短讯-2026-11-11</a></li></ul>
-  <a class="more" href="每日短讯/index.html">浏览全部 61 期</a>
+  <div class="lane-head"><h2>每日短讯</h2><span class="freq">每个工作日更新</span><span class="desc">AI · 钱 · 风险 · 信号，四条线的快讯雷达 · 共 62 期</span></div>
+  <a class="latest" href="每日短讯/index.html"><span><span class="kicker" style="font-size:12px">最新一期</span><br><span class="t">每日短讯-2026-11-17</span></span><span class="go">进入栏目 →</span></a>
+  <ul class="issues"><li><span class="n">2026-11-16</span><a href="%E6%AF%8F%E6%97%A5%E7%9F%AD%E8%AE%AF-2026-11-16.html">每日短讯-2026-11-16</a></li><li><span class="n">2026-11-15</span><a href="%E6%AF%8F%E6%97%A5%E7%9F%AD%E8%AE%AF-2026-11-15.html">每日短讯-2026-11-15</a></li><li><span class="n">2026-11-14</span><a href="%E6%AF%8F%E6%97%A5%E7%9F%AD%E8%AE%AF-2026-11-14.html">每日短讯-2026-11-14</a></li><li><span class="n">2026-11-13</span><a href="%E6%AF%8F%E6%97%A5%E7%9F%AD%E8%AE%AF-2026-11-13.html">每日短讯-2026-11-13</a></li><li><span class="n">2026-11-12</span><a href="%E6%AF%8F%E6%97%A5%E7%9F%AD%E8%AE%AF-2026-11-12.html">每日短讯-2026-11-12</a></li></ul>
+  <a class="more" href="每日短讯/index.html">浏览全部 62 期</a>
 </section><section class="lane">
   <div class="lane-head"><h2>知识萃取</h2><span class="freq">每日更新</span><span class="desc">一周高增量内容的深度蒸馏成刊，周内每日滚动更新 · 共 13 期</span></div>
   <a class="latest" href="知识萃取/index.html"><span><span class="kicker" style="font-size:12px">最新一期</span><br><span class="t">知识萃取周刊 2026-11-W3</span></span><span class="go">进入栏目 →</span></a>

diff --git a/项目效果展示/知识萃取/index.html b/项目效果展示/知识萃取/index.html
@@ -34,5 +34,5 @@ ul.issues .n{color:var(--muted);font-family:"PingFang SC",sans-serif;font-size:1
   <p class="meta">一周高增量内容的深度蒸馏成刊，周内每日滚动更新 · 每日更新 · 共 13 期</p>
 </header>
 <ul class="issues" style="columns:1"><li><span class="n">2026-11-21</span><a href="%E7%9F%A5%E8%AF%86%E8%90%83%E5%8F%96%E5%91%A8%E5%88%8A%202026-11-W3.html">知识萃取周刊 2026-11-W3</a></li><li><span class="n">2026-11-14</span><a href="%E7%9F%A5%E8%AF%86%E8%90%83%E5%8F%96%E5%91%A8%E5%88%8A%202026-11-W2.html">知识萃取周刊 2026-11-W2</a></li><li><span class="n">2026-11-07</span><a href="%E7%9F%A5%E8%AF%86%E8%90%83%E5%8F%96%E5%91%A8%E5%88%8A%202026-11-W1.html">知识萃取周刊 2026-11-W1</a></li><li><span class="n">2026-10-35</span><a href="%E7%9F%A5%E8%AF%86%E8%90%83%E5%8F%96%E5%91%A8%E5%88%8A%202026-10-W5.html">知识萃取周刊 2026-10-W5</a></li><li><span class="n">2026-10-28</span><a href="%E7%9F%A5%E8%AF%86%E8%90%83%E5%8F%96%E5%91%A8%E5%88%8A%202026-10-W4.html">知识萃取周刊 2026-10-W4</a></li><li><span class="n">2026-10-21</span><a href="%E7%9F%A5%E8%AF%86%E8%90%83%E5%8F%96%E5%91%A8%E5%88%8A%202026-10-W3.html">知识萃取周刊 2026-10-W3</a></li><li><span class="n">2026-10-14</span><a href="%E7%9F%A5%E8%AF%86%E8%90%83%E5%8F%96%E5%91%A8%E5%88%8A%202026-10-W2.html">知识萃取周刊 2026-10-W2</a></li><li><span class="n">2026-09-99</span><a href="%E7%9F%A5%E8%AF%86%E8%90%83%E5%8F%96%E7%89%B9%E5%88%8A-2026-09.html">知识萃取特刊-2026-09</a></li><li><span class="n">2026-09-28</span><a href="%E7%9F%A5%E8%AF%86%E8%90%83%E5%8F%96%E5%91%A8%E5%88%8A%202026-09-W4.html">知识萃取周刊 2026-09-W4</a></li><li><span class="n">2026-09-21</span><a href="%E7%9F%A5%E8%AF%86%E8%90%83%E5%8F%96%E5%91%A8%E5%88%8A%202026-09-W3.html">知识萃取周刊 2026-09-W3</a></li><li><span class="n">2026-09-14</span><a href="%E7%9F%A5%E8%AF%86%E8%90%83%E5%8F%96%202026-09-W2.html">知识萃取 2026-09-W2</a></li><li><span class="n">2026-08-99</span><a href="%E7%9F%A5%E8%AF%86%E8%90%83%E5%8F%96%E7%89%B9%E5%88%8A-2026-08.html">知识萃取特刊-2026-08</a></li><li><span class="n">2026-08-21</span><a href="%E5%9B%9B%E5%91%A8%E5%90%88%E8%BE%91%202026-08-W3%E2%86%9209-W1.html">四周合辑 2026-08-W3→09-W1</a></li></ul>
-<p class="foot">自动生成于 2026-11-16 19:00</p>
+<p class="foot">自动生成于 2026-11-17 19:00</p>
 </div></body></html>

diff --git a/项目效果展示/深读/index.html b/项目效果展示/深读/index.html
@@ -34,5 +34,5 @@ ul.issues .n{color:var(--muted);font-family:"PingFang SC",sans-serif;font-size:1
   <p class="meta">单主题深读特刊 · 不定期更新 · 共 3 期</p>
 </header>
 <ul class="issues" style="columns:1"><li><span class="n">2026-09-12</span><a href="2026-09-12%20%E8%AE%A4%E7%9F%A5%E9%87%8D%E7%BC%96%E8%AF%91-Grok%20Bot%EF%BC%9AAI%E4%BA%A7%E5%93%81%E7%9A%84%E5%8D%95%E4%BD%8D%E4%BB%8E%E5%AF%B9%E8%AF%9D%E5%8F%98%E6%88%90%E5%90%8C%E4%BA%8B.html">2026-09-12 认知重编译-Grok Bot：AI产品的单位从对话变成同事</a></li><li><span class="n">2026-09-12</span><a href="%E6%B7%B1%E8%AF%BB%E7%89%B9%E5%88%8A-01-%E6%8A%80%E6%9C%AF%E9%9D%A9%E5%91%BD%E4%B8%8E%E9%87%91%E8%9E%8D%E8%B5%84%E6%9C%AC.html">深读特刊-01-技术革命与金融资本</a></li><li><span class="n">2026-09-07</span><a href="%E5%88%9B%E6%96%B0%E8%80%85%E7%9A%84%E7%AA%98%E5%A2%83-%E5%95%86%E4%B8%9A%E6%9C%BA%E4%BC%9A%E6%93%8D%E4%BD%9C%E7%B3%BB%E7%BB%9F.html">创新者的窘境-商业机会操作系统</a></li></ul>
-<p class="foot">自动生成于 2026-11-16 19:00</p>
+<p class="foot">自动生成于 2026-11-17 19:00</p>
 </div></body></html>

diff --git a/README.md b/README.md
@@ -37,11 +37,11 @@ flowchart LR
 
 | 产出 | 节奏 | 存档 |
 | --- | --- | --- |
-| 每日短讯 | 每个工作日 | 61 期 |
+| 每日短讯 | 每个工作日 | 62 期 |
 | 知识萃取周刊 | 每日（周内滚动） | 13 期 |
 | 深读特刊 | 不定期 | 3 期 |
 
-共 77 期在线可读，每日 19:00 自动发布 · ![last commit](https://img.shields.io/github/last-commit/bor799/100x-research-engine) · 截图与最新一期见[附录 · 效果展示](#附录--效果展示)
+共 78 期在线可读，每日 19:00 自动发布 · ![last commit](https://img.shields.io/github/last-commit/bor799/100x-research-engine) · 截图与最新一期见[附录 · 效果展示](#附录--效果展示)
 <!-- RESULTS:END -->
 
 ## 系统解决什么
@@ -124,11 +124,11 @@ prompts/   评分、萃取与输出规则
 
 | 栏目 | 频率 | 最新一期 |
 | --- | --- | --- |
-| 每日短讯 | 每个工作日 | [每日短讯-2026-11-16](https://bor799.github.io/100x-research-engine/%E6%AF%8F%E6%97%A5%E7%9F%AD%E8%AE%AF/%E6%AF%8F%E6%97%A5%E7%9F%AD%E8%AE%AF-2026-11-16.html) |
+| 每日短讯 | 每个工作日 | [每日短讯-2026-11-17](https://bor799.github.io/100x-research-engine/%E6%AF%8F%E6%97%A5%E7%9F%AD%E8%AE%AF/%E6%AF%8F%E6%97%A5%E7%9F%AD%E8%AE%AF-2026-11-17.html) |
 | 知识萃取周刊 | 每日（周内滚动） | [知识萃取周刊 2026-11-W3](https://bor799.github.io/100x-research-engine/%E7%9F%A5%E8%AF%86%E8%90%83%E5%8F%96/%E7%9F%A5%E8%AF%86%E8%90%83%E5%8F%96%E5%91%A8%E5%88%8A%202026-11-W3.html) |
 | 深读特刊 | 不定期 | [2026-09-12 认知重编译-Grok Bot：AI产品的单位从对话变成同事](https://bor799.github.io/100x-research-engine/%E6%B7%B1%E8%AF%BB/2026-09-12%20%E8%AE%A4%E7%9F%A5%E9%87%8D%E7%BC%96%E8%AF%91-Grok%20Bot%EF%BC%9AAI%E4%BA%A7%E5%93%81%E7%9A%84%E5%8D%95%E4%BD%8D%E4%BB%8E%E5%AF%B9%E8%AF%9D%E5%8F%98%E6%88%90%E5%90%8C%E4%BA%8B.html) |
 
-**[→ 从首页进入在线杂志](https://bor799.github.io/100x-research-engine/)**（共 77 期存档）
+**[→ 从首页进入在线杂志](https://bor799.github.io/100x-research-engine/)**（共 78 期存档）
 
 *截图与最新一期链接由发布脚本每日自动刷新。*
 <!-- DEMO:END -->

diff --git a/README_EN.md b/README_EN.md
@@ -37,11 +37,11 @@ This pipeline runs daily in production, not as an experiment:
 
 | Output | Cadence | Archive |
 | --- | --- | --- |
-| Daily Wire | Weekdays | 61 issues |
+| Daily Wire | Weekdays | 62 issues |
 | Weekly Digest | Daily (rolling) | 13 issues |
 | Deep Read | Occasional | 3 issues |
 
-77 issues readable online, auto-published daily 19:00 (Asia/Shanghai) · ![last commit](https://img.shields.io/github/last-commit/bor799/100x-research-engine) · Screenshots in the [Appendix](#appendix--live-demo)
+78 issues readable online, auto-published daily 19:00 (Asia/Shanghai) · ![last commit](https://img.shields.io/github/last-commit/bor799/100x-research-engine) · Screenshots in the [Appendix](#appendix--live-demo)
 <!-- RESULTS:END -->
 
 ## Verified
@@ -96,9 +96,9 @@ A fully automated personal knowledge magazine, published to GitHub Pages:
 
 | Lane | Cadence | Latest issue |
 | --- | --- | --- |
-| Daily Wire | Weekdays | [每日短讯-2026-11-16](https://bor799.github.io/100x-research-engine/%E6%AF%8F%E6%97%A5%E7%9F%AD%E8%AE%AF/%E6%AF%8F%E6%97%A5%E7%9F%AD%E8%AE%AF-2026-11-16.html) |
+| Daily Wire | Weekdays | [每日短讯-2026-11-17](https://bor799.github.io/100x-research-engine/%E6%AF%8F%E6%97%A5%E7%9F%AD%E8%AE%AF/%E6%AF%8F%E6%97%A5%E7%9F%AD%E8%AE%AF-2026-11-17.html) |
 | Weekly Digest | Daily (rolling) | [知识萃取周刊 2026-11-W3](https://bor799.github.io/100x-research-engine/%E7%9F%A5%E8%AF%86%E8%90%83%E5%8F%96/%E7%9F%A5%E8%AF%86%E8%90%83%E5%8F%96%E5%91%A8%E5%88%8A%202026-11-W3.html) |
 | Deep Read | Occasional | [2026-09-12 认知重编译-Grok Bot：AI产品的单位从对话变成同事](https://bor799.github.io/100x-research-engine/%E6%B7%B1%E8%AF%BB/2026-09-12%20%E8%AE%A4%E7%9F%A5%E9%87%8D%E7%BC%96%E8%AF%91-Grok%20Bot%EF%BC%9AAI%E4%BA%A7%E5%93%81%E7%9A%84%E5%8D%95%E4%BD%8D%E4%BB%8E%E5%AF%B9%E8%AF%9D%E5%8F%98%E6%88%90%E5%90%8C%E4%BA%8B.html) |
 
-**[→ Open the magazine](https://bor799.github.io/100x-research-engine/)** (77 issues archived)
+**[→ Open the magazine](https://bor799.github.io/100x-research-engine/)** (78 issues archived)
 <!-- DEMO:END -->
